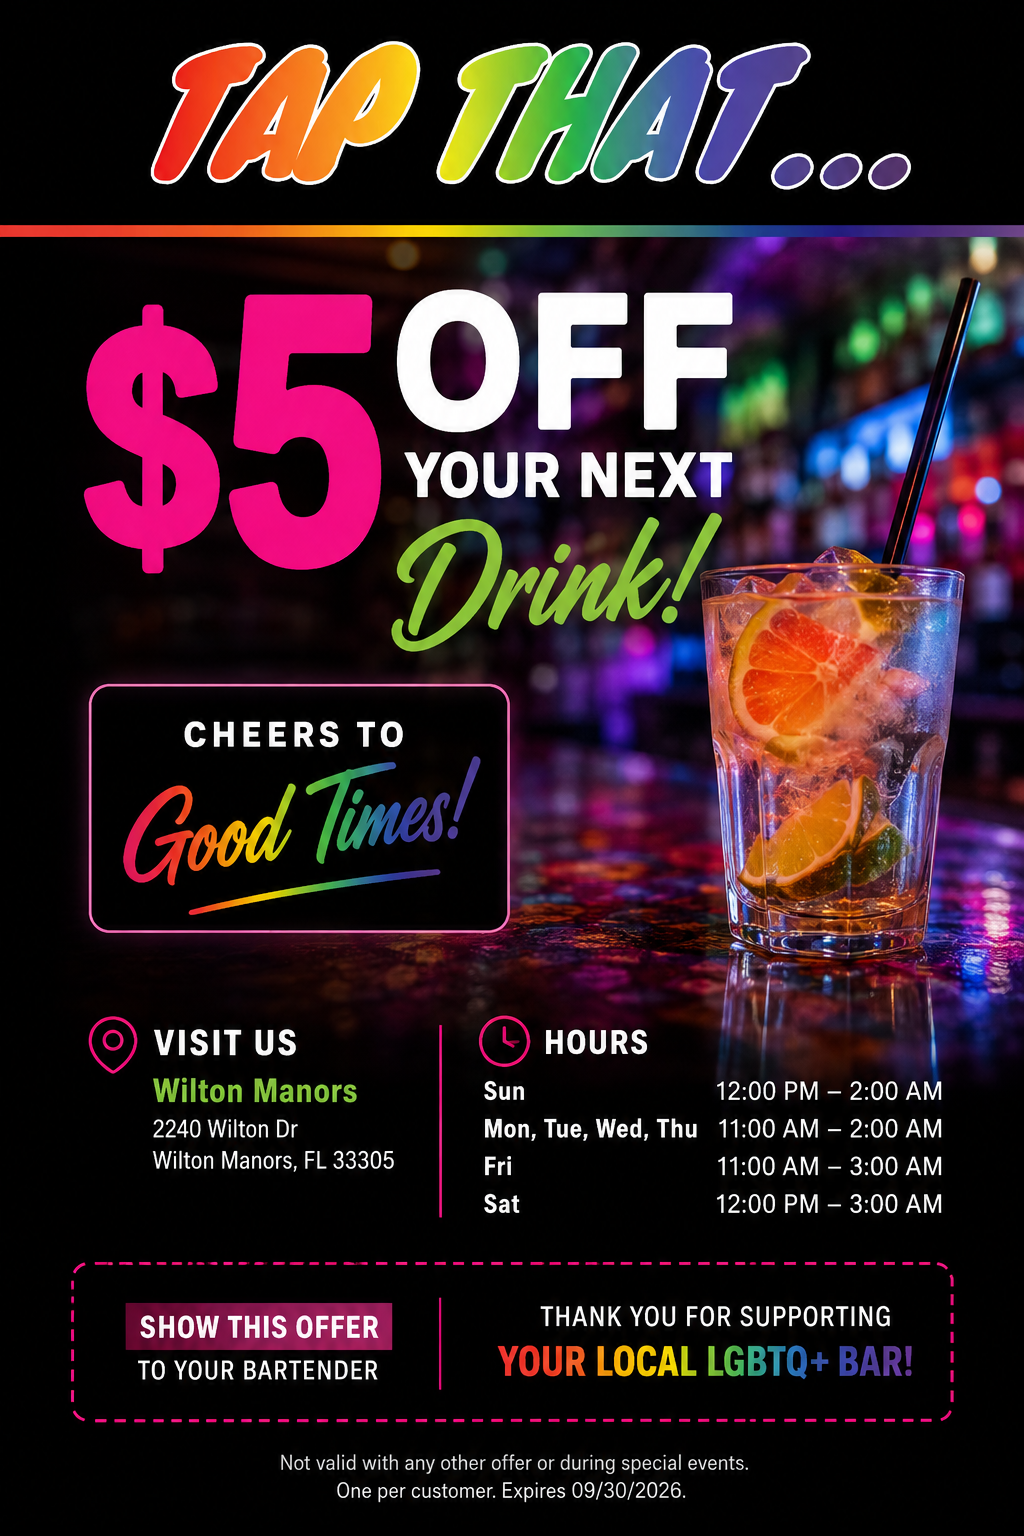
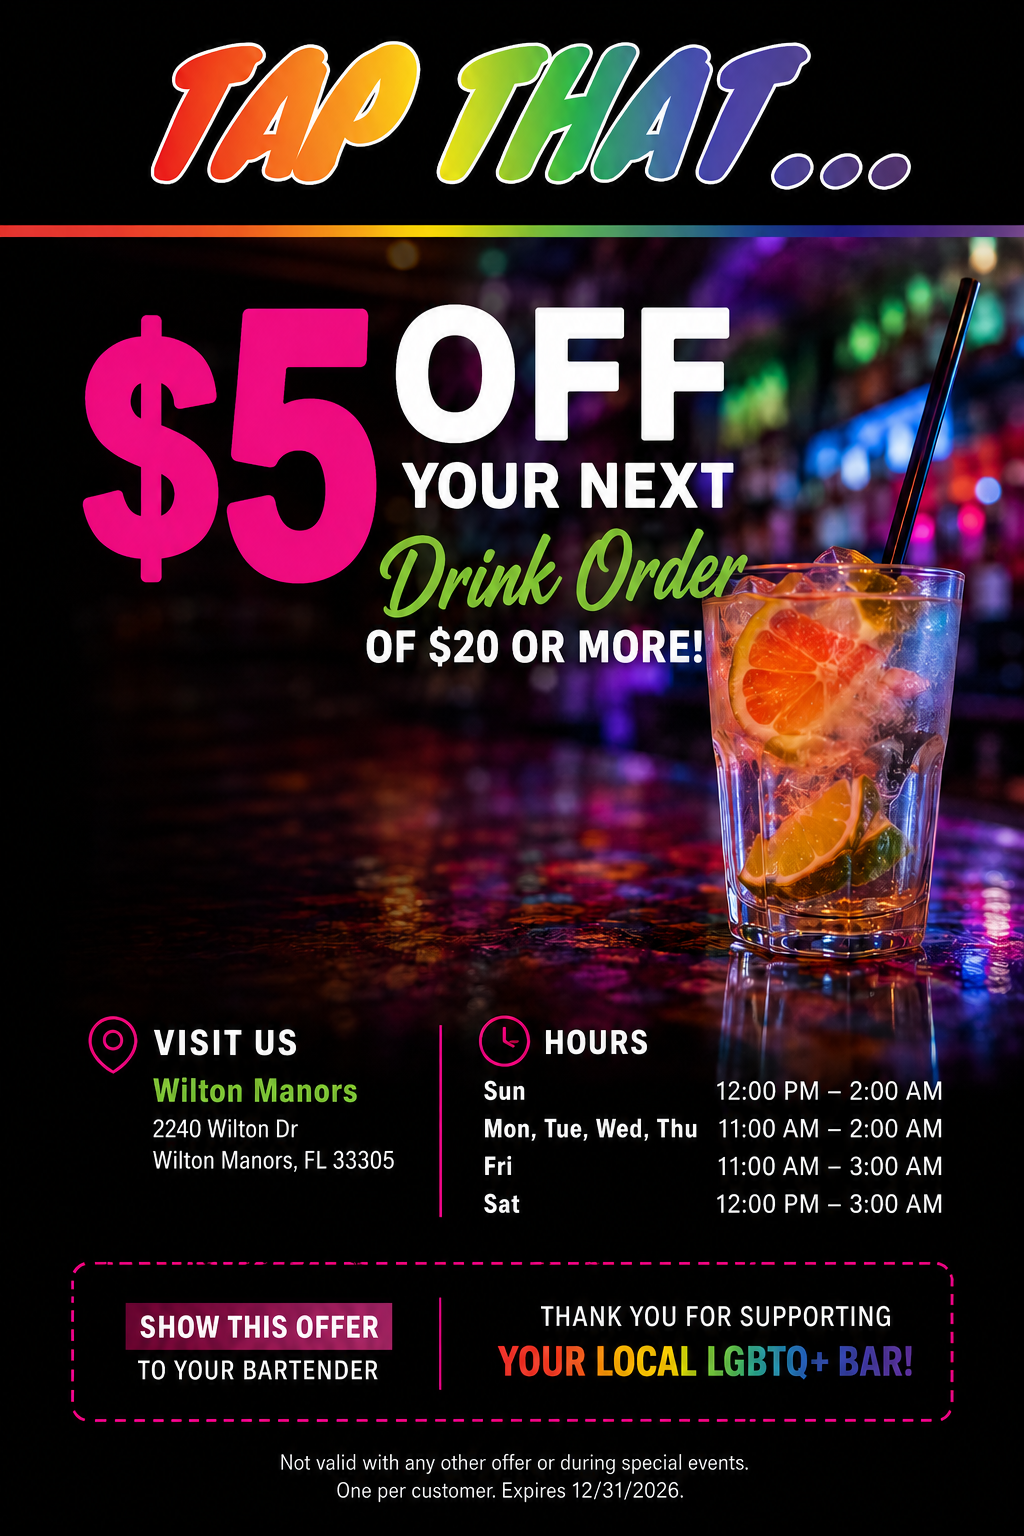
Add files via upload

diff --git a/TapThat/TapThatSingleUse.html b/TapThat/TapThatSingleUse.html
@@ -290,7 +290,7 @@
 <body>
   <header>
     <div class="header-inner">
-      <a class="brand-link" href="https://tapthatbar.com/" aria-label="Tap That home">
+      <a class="brand-link" href="https://tapthatwiltonmanors.com/" aria-label="Tap That home">
         <img src="TapThatLogo.png" alt="Tap That" />
       </a>
     </div>
@@ -350,7 +350,7 @@
   <footer>
     <div class="footer-inner">
       <div class="footer-logo">
-        <a href="https://tapthatbar.com/" target="_blank" rel="noopener" aria-label="Visit Tap That website">
+        <a href="https://tapthatwiltonmanors.com/" target="_blank" rel="noopener" aria-label="Visit Tap That website">
           <img src="TapThatLogo.png" alt="Tap That" />
         </a>
       </div>
@@ -368,7 +368,7 @@
         <p class="footer-title">Tap That</p>
         <div class="footer-copy">
           LGBTQ+ bar and vocal music lounge<br />
-          <a href="https://tapthatbar.com/" target="_blank" rel="noopener">Visit website</a>
+          <a href="https://tapthatwiltonmanors.com/" target="_blank" rel="noopener">Visit website</a>
         </div>
       </div>
     </div>
@@ -499,8 +499,11 @@
       await drawPromotion(promotion);
 
       previewWrap.hidden = true;
-      claimButton.closest(".actions").hidden = true;
+      document.getElementById("claimActions").style.display = "none";
       claimHelper.hidden = true;
+
+      claimButton.disabled = false;
+      claimButton.textContent = "Get My Promotion";
 
       issuedWrap.hidden = false;
       issuedSummary.hidden = false;
